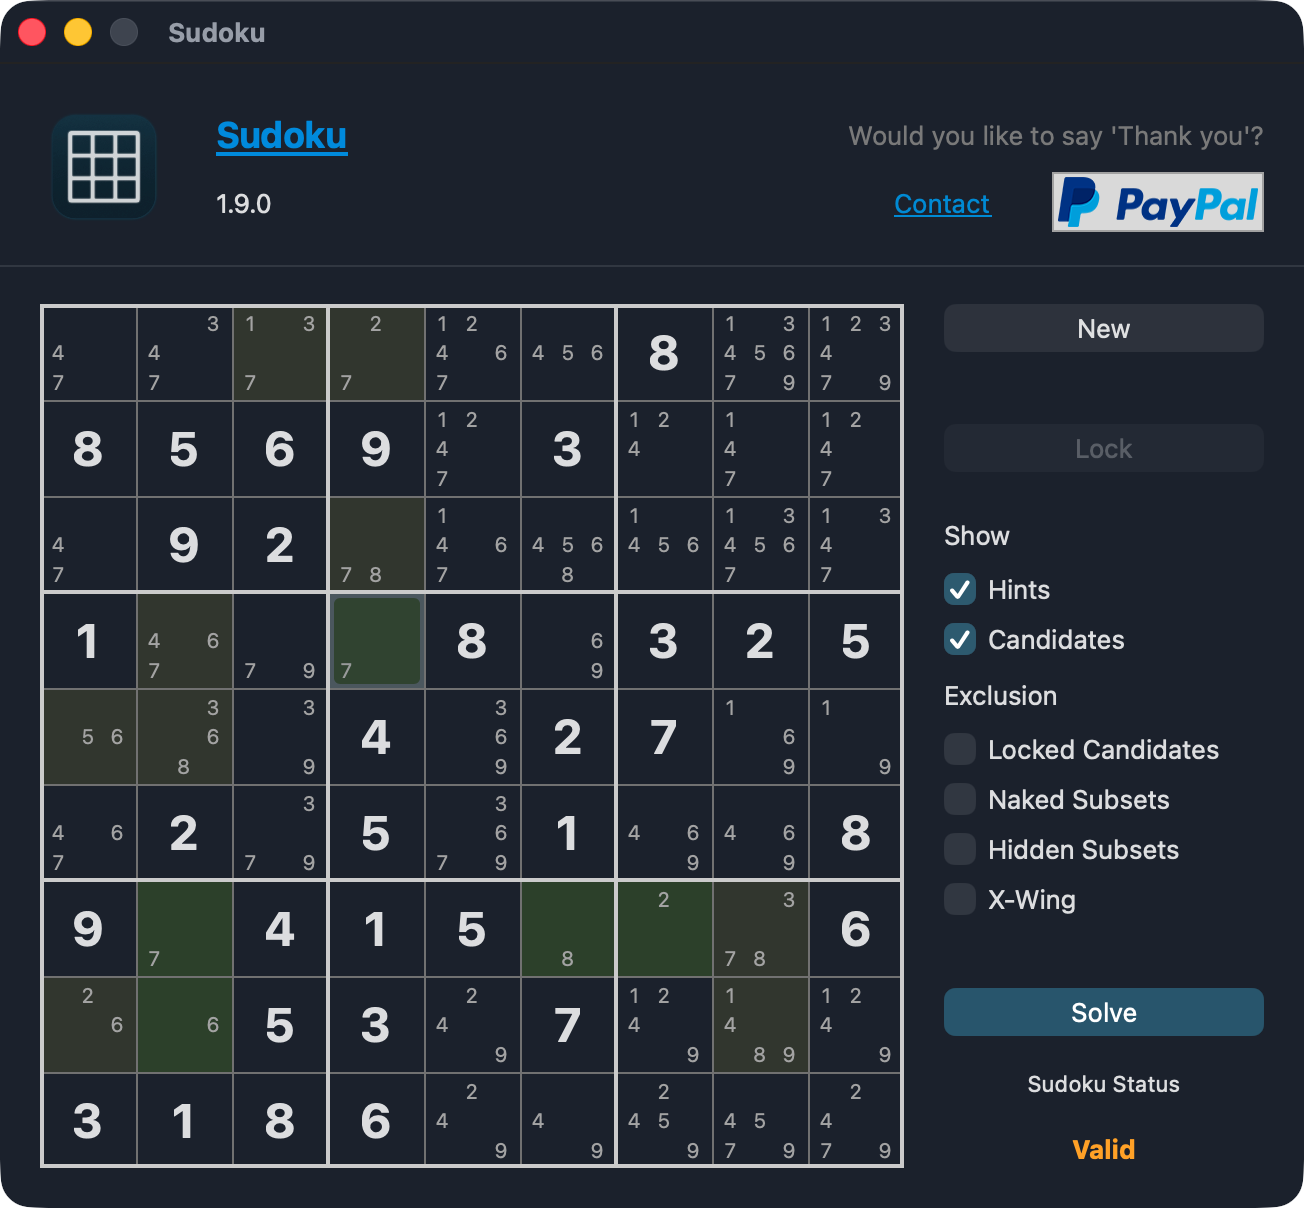
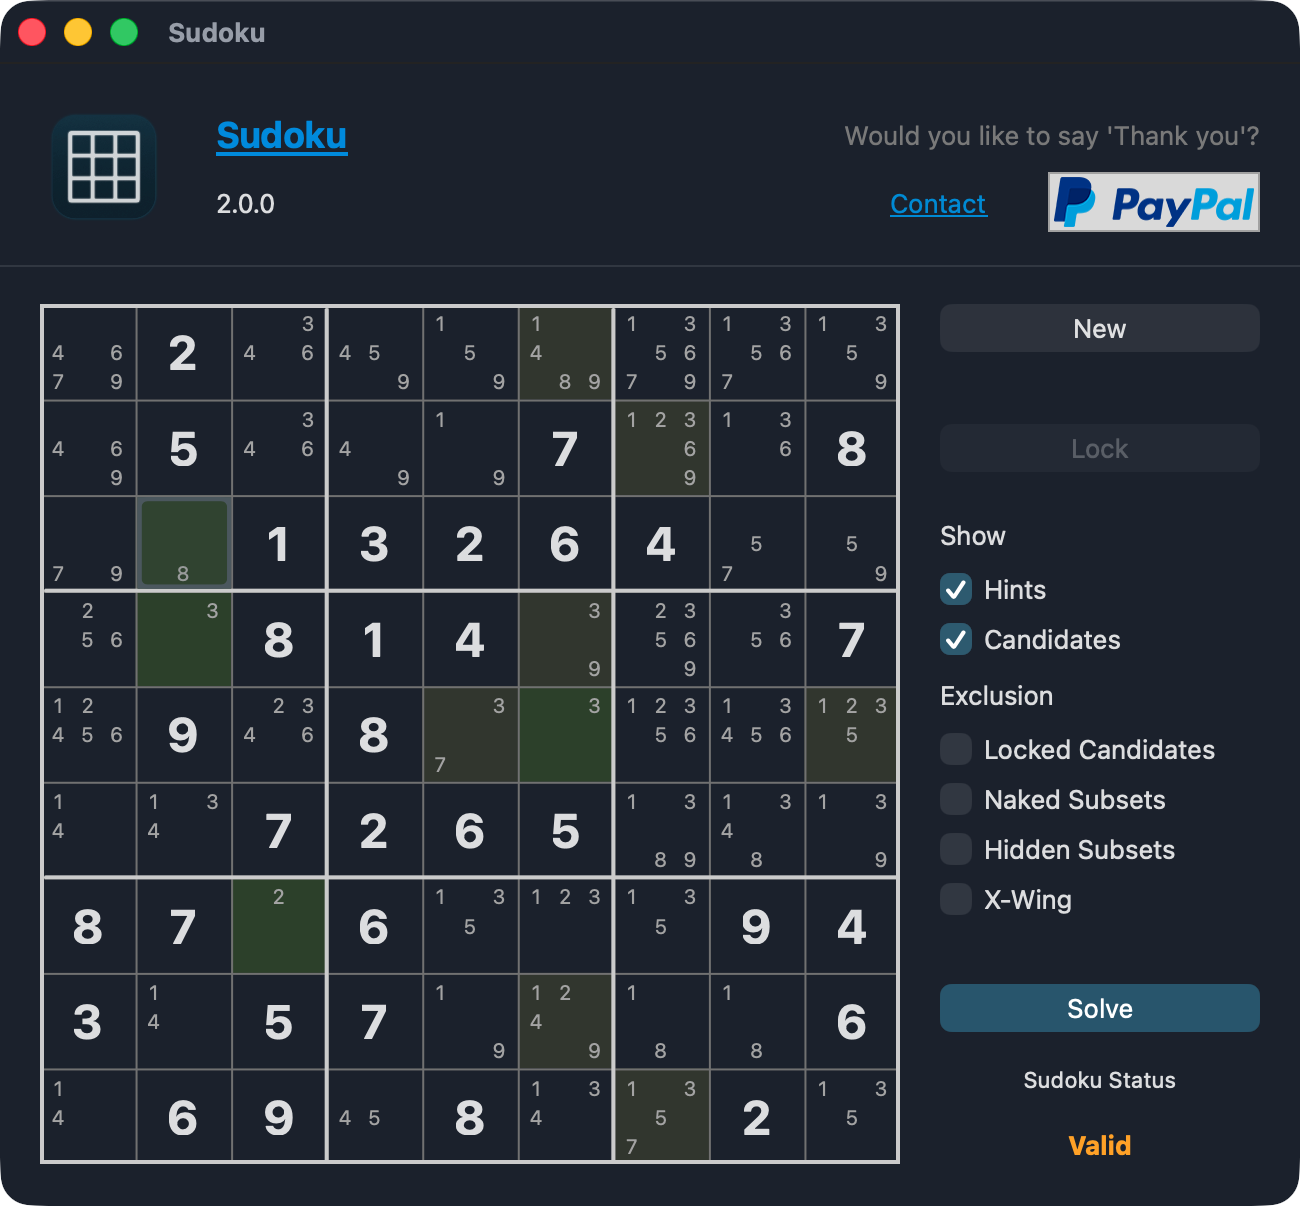
Desktop: Sudoku Canvas Resize (#26)
* Web Sudoku Canvas: Draw in IDE

* Allow Resize

* Change Default Size

* Adjust Grid Drawing

* Adjust Layout Resize

* Version 2.0.0

* Web Log

diff --git a/README.md b/README.md
@@ -15,14 +15,13 @@ The Web Application is also available as a [Docker Image: jotools/sudoku](https:
 - Create a Sudoku puzzle
   - Generate a random Sudoku puzzle based on a selected difficulty level
   - Enter your own Sudoku puzzle
-- Solve the Sudoku puzzle
-  - Interactively edit puzzles with
-    - On-the-fly validation
-    - Hints
-      - Highlight easiest cells to solve *(Naked Singles, Hidden Singles)*
-      - Display all possible cell candidates
-      - Optionally mark cell candidates that can be excluded *(Locked Candidates, Naked Subsets, Hidden Subsets, X-Wing)*
-  - Let the solver complete the puzzle
+- Interactively solve the Sudoku puzzles with
+  - On-the-fly validation
+  - Hints
+    - Highlight easiest cells to solve *(Naked Singles, Hidden Singles)*
+    - Display all possible cell candidates
+    - Optionally mark cell candidates that can be excluded *(Locked Candidates, Naked Subsets, Hidden Subsets, X-Wing)*
+- Let the solver complete the puzzle
 - Export as PDF | Print
 - Save to File | Open from File *(Desktop only)*
 - Web Application
